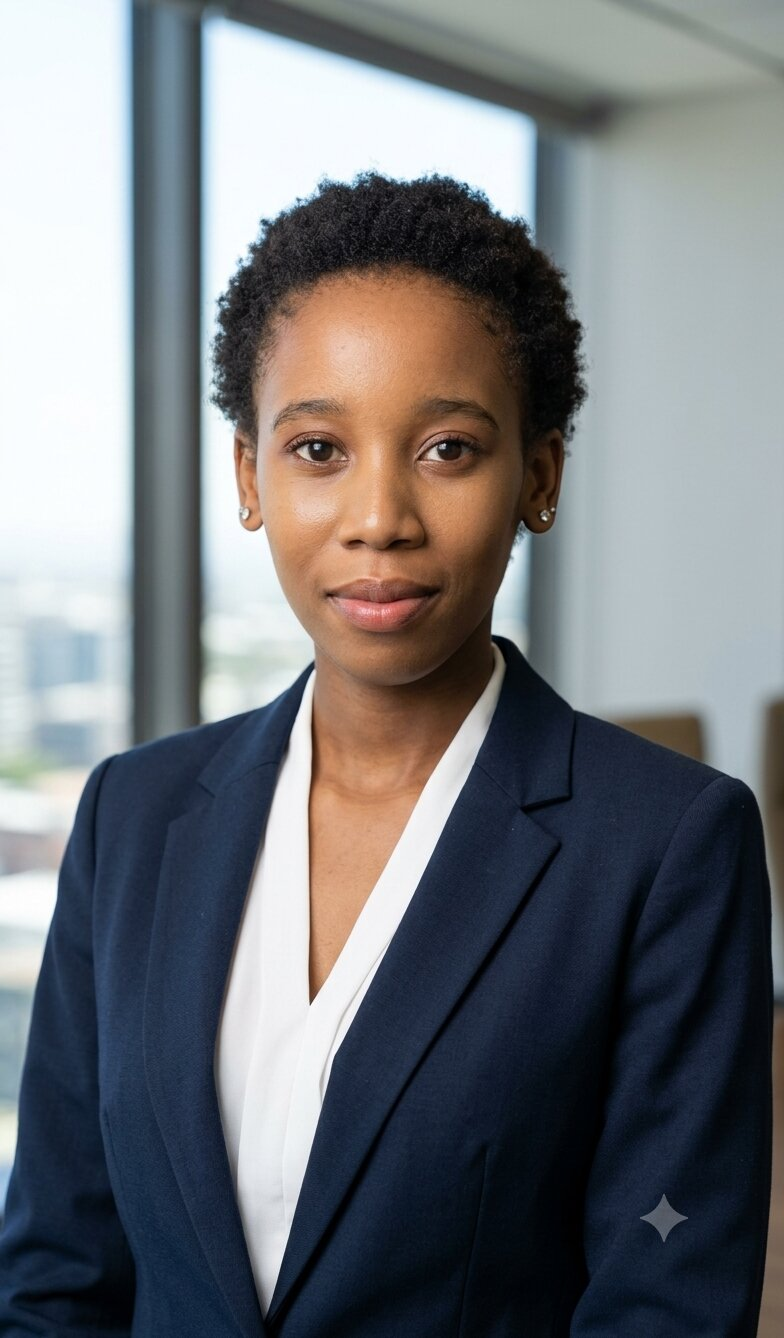
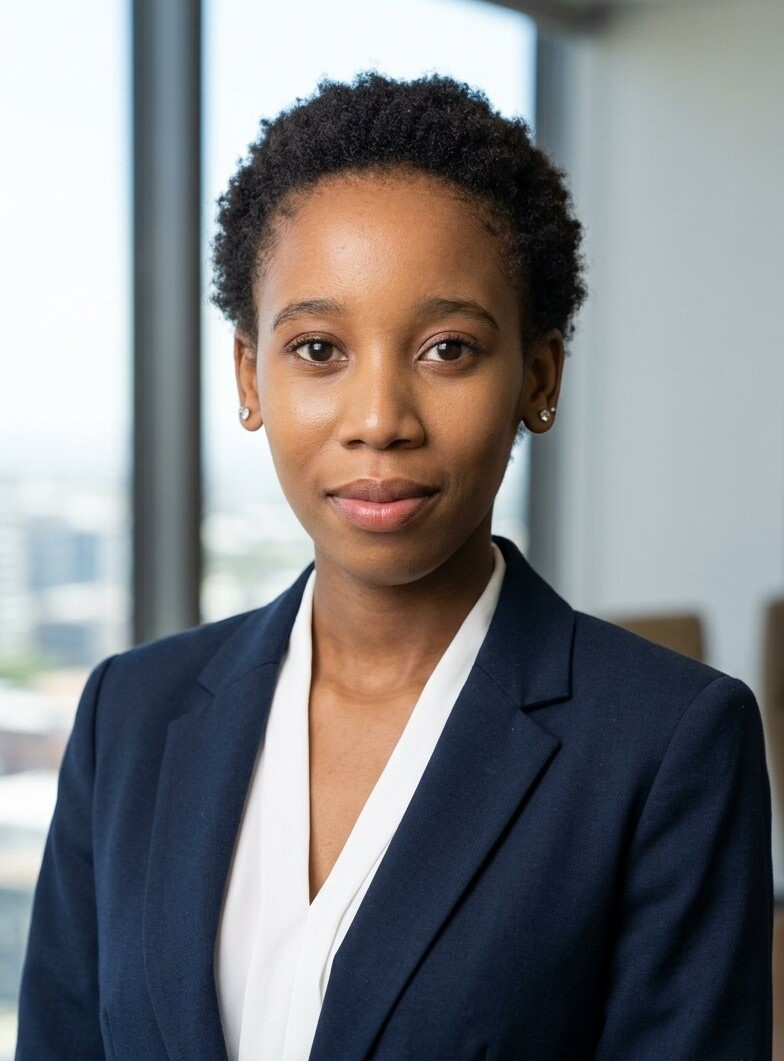
updated website

diff --git a/style.css b/style.css
@@ -797,51 +797,188 @@ footer{
     }
 }
 
-/* RESPONSIVE DESIGN FOR MOBILE (Chini ya 768px) */
+/* --- MANAGEMENT YA BUTTONS (DESKTOP VS MOBILE) --- */
+.mobile-only-btn {
+    display: none;
+    width: 100%;
+    padding: 0 20px;
+    margin-top: 15px;
+    box-sizing: border-box;
+}
+/* ==========================================================================
+   TEAM SECTION - PREMIUM GRID LAYOUT
+   ========================================================================== */
+   .team-section {
+    padding: 80px 0;
+    background-color: #ffffff; /* Background nyeupe safi ili itofautiane na section nyingine */
+}
+
+/* Mfumo wa Grid unaoweka kadi 3 sambamba kwenye Desktop */
+.team-grid {
+    display: grid;
+    grid-template-columns: repeat(3, 1fr);
+    gap: 30px; /* Nafasi kati ya kadi na kadi */
+    margin-top: 40px;
+}
+
+/* Muundo wa Kadi ya Mwanafamilia wa Timu */
+.team-card {
+    background: #ffffff;
+    border-radius: 16px;
+    overflow: hidden;
+    box-shadow: 0 10px 30px rgba(15, 29, 58, 0.05); /* Kivuli laini cha kisasa */
+    border: 1px solid rgba(15, 29, 58, 0.05);
+    transition: transform 0.3s ease, box-shadow 0.3s ease;
+    display: flex;
+    flex-direction: column;
+}
+
+/* Efekti ya kadi ikigusa (Hover) */
+.team-card:hover {
+    transform: translateY(-10px); /* Kadi inanyanyuka juu kidogo */
+    box-shadow: 0 20px 40px rgba(15, 29, 58, 0.1);
+    border-color: rgba(241, 90, 36, 0.2); /* Inaleta wekundu wa mbali wa mboni ya brand */
+}
+
+/* Sehemu inayoshikilia Picha */
+.team-image {
+    width: 100%;
+    height: 400px; /* Urefu uliotulia wa picha */
+    overflow: hidden;
+    position: relative;
+    background-color: #f8fafc;
+}
+
+.team-image img {
+    width: 100%;
+    height: 100%;
+    object-fit: cover; /* Inafanya picha ijijaze vizuri bila kukatika sura vibaya */
+    object-position: center;
+    transition: scale 0.5s ease;
+}
+
+.team-card:hover .team-image img {
+    scale: 1.03; /* Picha inajisogeza mbele kidogo kwa mbali kadi ikiguswa */
+}
+
+/* Sehemu ya Maandishi ndani ya Kadi */
+.team-content {
+    padding: 25px;
+    text-align: left; /* Inakaa kushoto safi kuendana na muundo wa Kitaa Digital */
+    flex-grow: 1;
+    display: flex;
+    flex-direction: column;
+}
+
+.team-content h3 {
+    font-size: 1.3rem;
+    color: #0f1d3a; /* Rangi ya Navy */
+    margin-bottom: 5px;
+    font-weight: 700;
+}
+
+/* Cheo cha Mtu */
+.team-content span {
+    display: block;
+    font-size: 0.9rem;
+    color: #f15a24; /* Rangi yako ya Orange/Machungwa ya brand */
+    font-weight: 600;
+    margin-bottom: 15px;
+    text-transform: uppercase; /* Inaleta herufi kubwa kwenye vyeo */
+    letter-spacing: 0.5px;
+}
+
+/* Maelezo ya kazi ya mtu */
+.team-content p {
+    font-size: 0.95rem;
+    color: #64748b; /* Rangi ya kijivu iliyotulia isiyoumiza macho */
+    line-height: 1.6;
+    margin: 0;
+}
+/* --- RESPONSIVE DESIGN KWA AJILI YA SIMU) --- */
 @media(max-width: 768px) {
     h2 { font-size: 2rem; }
     .hero h1 { font-size: 2.5rem; }
     .stats, .mission-vision, .testimonials-grid { grid-template-columns: 1fr; }
     .contact-form { padding: 30px; }
     .footer-box-layout { flex-direction: column; gap: 15px; text-align: center; }
-    header .btn { display: none; }
-
-    .hamburger {
-        display: block;
-    }
     
-    /* Menu ya simu inabadilika kuwa dropdown safi ya glossy */
+    /* Ficha button ya desktop na onyesha hamburger */
+    .desktop-only-btn { display: none !important; }
+    .hamburger { display: block; }
+
     .nav-links {
         position: absolute;
-        top: 80px;
+        top: 100%; 
         left: 0;
-        width: 100%;
-        background: rgba(255, 255, 255, 0.9);
-        backdrop-filter: blur(20px);
-        -webkit-backdrop-filter: blur(20px);
-        flex-direction: column;
-        padding: 30px 20px;
-        display: none;
-        box-shadow: 0 10px 30px rgba(0,0,0,0.1);
-        gap: 20px;
-        text-align: center;
-        z-index: 999;
-        border-radius: 0; 
-        border: none;
+        width: 100% !important;
+        background: #ffffff !important; 
+        flex-direction: column !important;
+        align-items: flex-start !important; /* Inalazimisha li-tags zianzie kushoto */
+        padding: 15px 0 !important; 
+        display: none; 
+        box-shadow: 0 15px 30px rgba(0, 0, 0, 0.08);
+        gap: 0 !important; 
+        border-radius: 0 !important; 
+        border: none !important;
         border-top: 1px solid rgba(15, 29, 58, 0.05);
+        backdrop-filter: none !important;
+        -webkit-backdrop-filter: none !important;
+        box-sizing: border-box;
     }
     
+    .nav-links li {
+        width: 100% !important;
+        text-align: left !important; /* Inalazimisha text ikae kushoto */
+        display: block !important;
+    }
+    
+    /* MAANDISHI YAKAE KUSHOTO (LEFT) NA PADDING */
     .nav-links a {
-        width: 100%;
-        justify-content: center;
-        border-radius: 8px;
+        display: block !important;
+        width: 100% !important;
+        text-align: left !important; /* Hapa ndio muujiza wa kwenda Left ulipo */
+        padding: 16px 24px !important; /* Nafasi nzuri kutoka ukuta wa kushoto kama picha yako */
+        font-size: 1.05rem !important;
+        color: #1e293b !important; /* Rangi ya herufi iwe dark safi */
+        border-radius: 0 !important;
+        font-weight: 500;
+        box-sizing: border-box;
     }
     
-    .nav-links.active {
-        display: flex;
+    /* Kipengele kilichochaguliwa (Active) kikae kishababi */
+    .nav-links li.active a {
+        background: #fdf6f0 !important; /* Rangi ile ya cream/soft orange kwa mbali */
+        color: #f15a24 !important; /* Maandishi yawe na rangi ya brand yako ya machungwa */
+        font-weight: 600;
     }
-}
 
-body.menu-open {
-    overflow: hidden;
+    .nav-links a:hover {
+        background: #f8fafc !important;
+        padding-left: 30px !important; /* Ka-animation kadogo kakisogea mbele kidogo */
+        transition: all 0.3s ease;
+    }
+    
+    /* Button ya chini kabisa kuijaza upande hadi upande */
+    .mobile-only-btn {
+        display: block !important;
+    }
+
+    .mobile-only-btn a {
+        display: flex !important;
+        justify-content: center !important; /* Maandishi ya button yenyewe yabaki katikati ya button */
+        align-items: center;
+        border-radius: 8px !important;
+        padding: 14px !important;
+        background: #0f1d3a !important; /* Dark Blue ya Kitaa Digital */
+        color: #ffffff !important;
+        margin: 10px 20px 20px 20px !important; /* Inaleta uwiano wa pembeni */
+        width: calc(100% - 40px) !important;
+        font-weight: 600;
+    }
+    
+    /* Class ya JS itakayofungua menu */
+    .nav-links.active {
+        display: flex !important;
+    }
 }

diff --git a/index.html b/index.html
@@ -20,8 +20,8 @@
             <div class="logo">
                 <img src="asset/logo.jpeg" alt="GINOSKO Logo" class="logo-img">
             </div>
-
-            <ul class="nav-links">
+    
+            <ul class="nav-links" id="navLinks">
                 <li class="active"><a href="#home">Home</a></li>
                 <li><a href="#about">About</a></li>
                 <li><a href="#services">Our Services</a></li>
@@ -30,10 +30,10 @@
                 <li><a href="#team">Our Team</a></li>  
                 <li><a href="#contact">Contact</a></li>
             </ul>
-
-            <a href="#contact" class="btn btn-premium">Free Consultation</a>
-
-            <button class="hamburger" aria-label="Toggle navigation">
+    
+            <a href="#contact" class="btn btn-premium desktop-only-btn">Free Consultation</a>
+    
+            <button class="hamburger" id="menuToggle" aria-label="Toggle navigation">
                 <i class="fa-solid fa-bars"></i>
             </button>
         </div>
